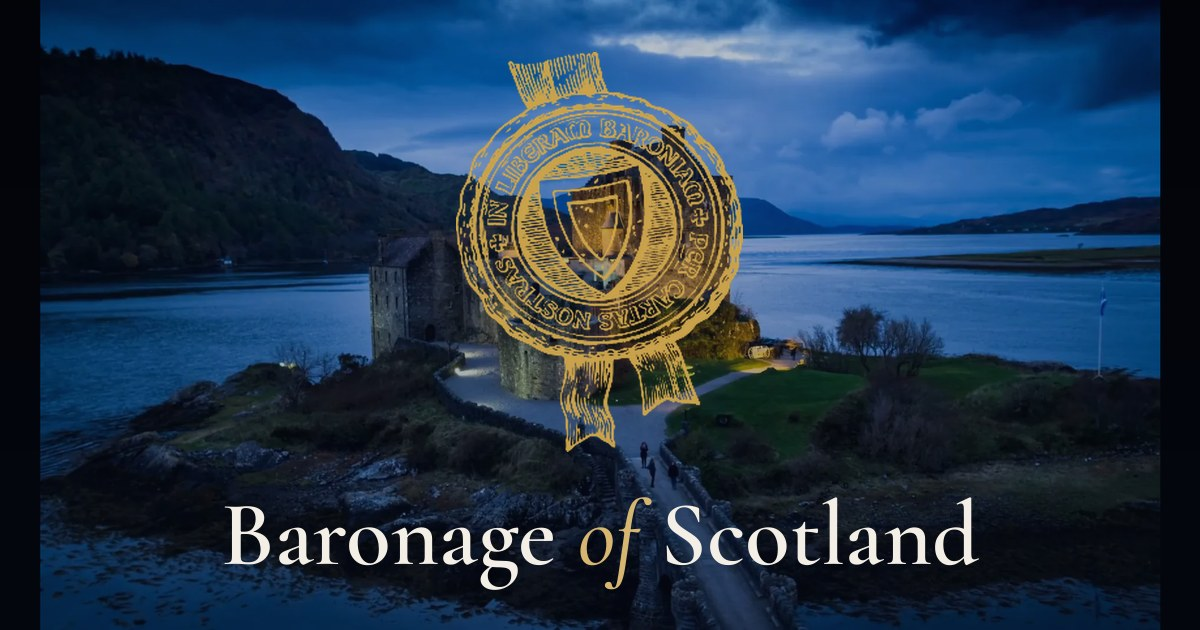
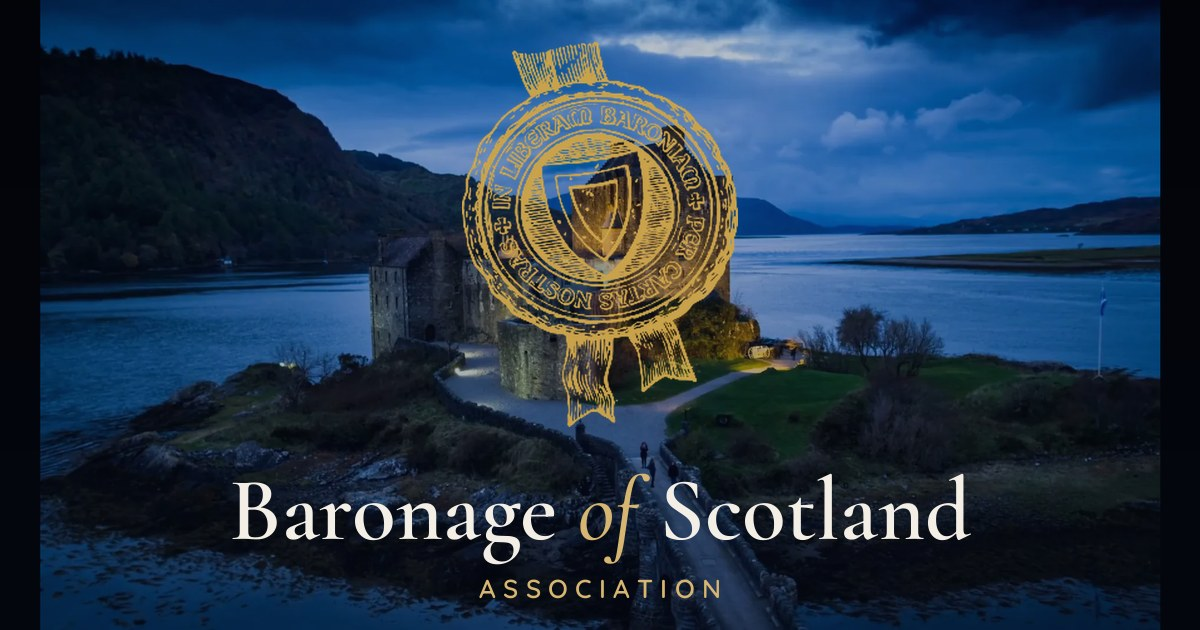
Mobile: fix hamburger drawer when scrolled (anchor to viewport); swipeable supporters carousel; OG card adds ASSOCIATION

Changed region(s): [[0.37, 0.0603, 0.6475, 0.7238], [0.185, 0.754, 0.8325, 0.9651]]

diff --git a/src/components/SiteHeader.tsx b/src/components/SiteHeader.tsx
@@ -122,7 +122,7 @@ export function SiteHeader() {
               onClick={() => setOpen(false)}
             />
             <motion.nav
-              className="fixed inset-x-0 z-40 border-b border-gold/30 bg-parchment-50 px-6 pb-8 pt-4 shadow-heritage lg:hidden"
+              className="fixed inset-x-0 top-[4.75rem] z-40 max-h-[calc(100svh-4.75rem)] overflow-y-auto border-b border-gold/30 bg-parchment-50 px-6 pb-8 pt-4 shadow-heritage lg:hidden"
               initial={{ opacity: 0, y: -16 }}
               animate={{ opacity: 1, y: 0 }}
               exit={{ opacity: 0, y: -16 }}
